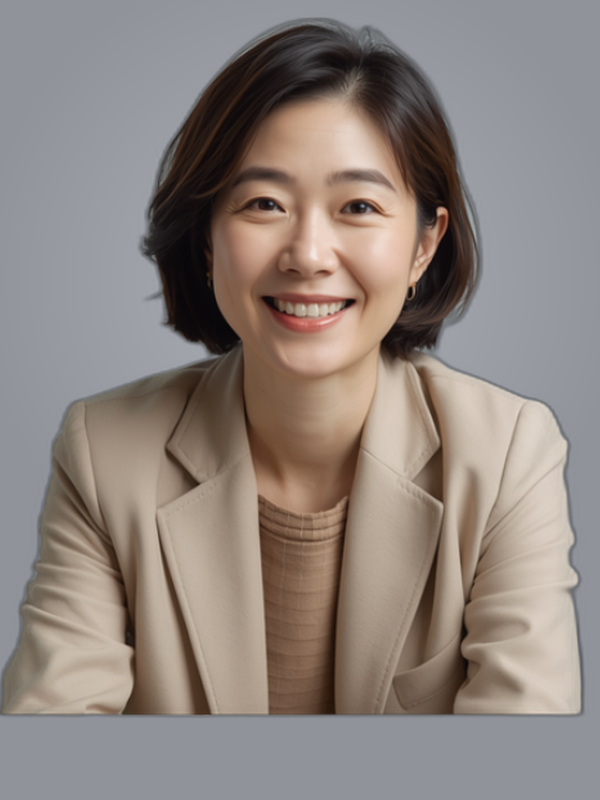
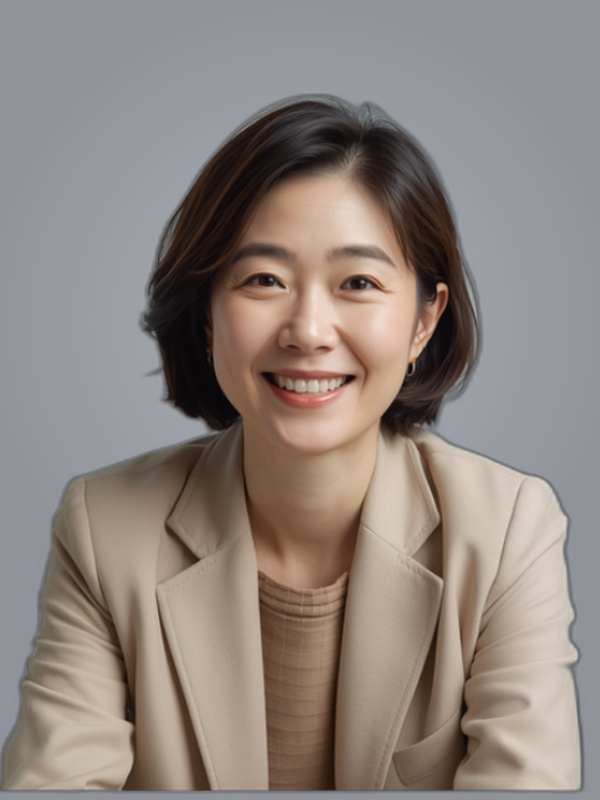
강사진: 최수진 하단 정렬 + 권보경/이동길 120% 확대

diff --git a/pentacampus/instructors.html b/pentacampus/instructors.html
@@ -69,8 +69,10 @@
     .icard { background: var(--white); border: 1px solid var(--light); border-radius: 14px; overflow: hidden; display: flex; flex-direction: column; transition: box-shadow 0.2s, transform 0.2s; }
     .icard:hover { box-shadow: 0 12px 40px rgba(0,0,0,0.08); transform: translateY(-3px); }
     .icard-photo { width: 100%; aspect-ratio: 3/4; overflow: hidden; background: #909396; position: relative; display: flex; align-items: flex-end; justify-content: center; }
-    .icard-photo img { width: 100%; height: 100%; object-fit: cover; object-position: top center; display: block; filter: grayscale(100%); transition: filter 0.4s ease; }
+    .icard-photo img { width: 100%; height: 100%; object-fit: cover; object-position: top center; display: block; filter: grayscale(100%); transition: filter 0.4s ease, transform 0.4s ease; }
     .icard:hover .icard-photo img { filter: grayscale(0%); }
+    .icard-photo.zoom-120 img { transform: scale(1.2); transform-origin: top center; }
+    .icard:hover .icard-photo.zoom-120 img { transform: scale(1.23); }
     .icard-placeholder { font-size: 64px; font-weight: 900; color: rgba(201,168,76,0.3); margin-bottom: 20px; }
     .icard-body { padding: 24px 22px 26px; display: flex; flex-direction: column; gap: 0; flex: 1; }
     .icard-role { font-size: 9px; font-weight: 700; letter-spacing: 3px; text-transform: uppercase; color: var(--gold); margin-bottom: 8px; }
@@ -240,7 +242,7 @@
 
       <!-- 권보경 -->
       <div class="icard rv d5">
-        <div class="icard-photo"><img src="images/instructors/kwon-bokyung.jpg" alt="권보경"></div>
+        <div class="icard-photo zoom-120"><img src="images/instructors/kwon-bokyung.jpg" alt="권보경"></div>
         <div class="icard-body">
           <div class="icard-role">소논문·연구 전문가</div>
           <div class="icard-name">권보경</div>
@@ -254,7 +256,7 @@
 
       <!-- 이동길 -->
       <div class="icard rv d5">
-        <div class="icard-photo"><img src="images/instructors/lee-donggil.jpg" alt="이동길"></div>
+        <div class="icard-photo zoom-120"><img src="images/instructors/lee-donggil.jpg" alt="이동길"></div>
         <div class="icard-body">
           <div class="icard-role">Co-founder · CTO</div>
           <div class="icard-name">이동길</div>
